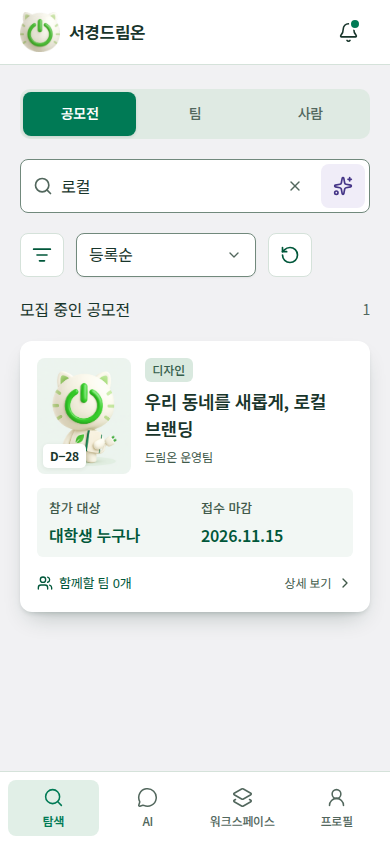
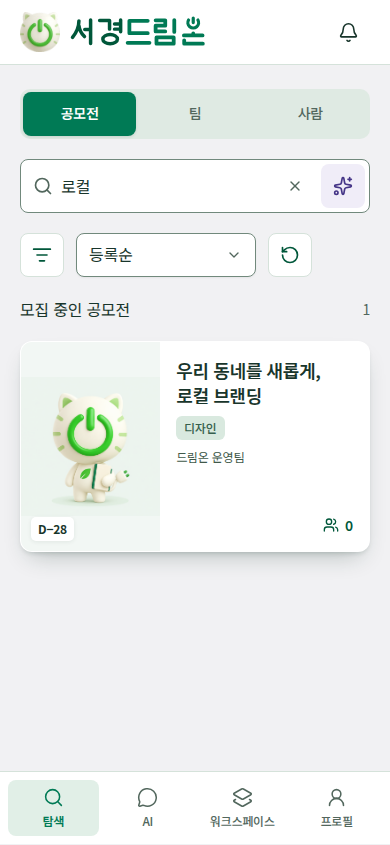
refactor(design): simplify explore contest cards around portrait posters

diff --git a/design-reference/src/features/design-preview/service-ui.css b/design-reference/src/features/design-preview/service-ui.css
@@ -339,11 +339,17 @@
   font-variant-numeric: tabular-nums;
 }
 .dreamon-preview .preview-explore .preview-contest-card {
-  gap: 14px;
+  display: grid;
+  grid-template-columns: minmax(0, 40%) minmax(0, 1fr);
+  align-items: stretch;
+  gap: 0;
+  padding: 0;
+  overflow: hidden;
 }
 .dreamon-preview .preview-explore .preview-contest-card h3 {
   margin: 0;
-  line-height: 1.5;
+  line-height: 1.4;
+  overflow-wrap: anywhere;
 }
 .dreamon-preview .preview-explore .preview-contest-card .preview-muted,
 .dreamon-preview .preview-explore .preview-card-facts,
@@ -356,31 +362,29 @@
   margin: 0;
   gap: 8px;
 }
-.dreamon-preview .preview-contest-heading {
-  display: grid;
-  grid-template-columns: clamp(88px, 24cqi, 104px) minmax(0, 1fr);
-  align-items: start;
-  gap: 14px;
-}
 .dreamon-preview .preview-contest-cover {
   position: relative;
   display: grid;
   place-items: center;
-  height: 116px;
+  width: 100%;
+  min-width: 0;
+  min-height: 100%;
+  aspect-ratio: 2 / 3;
   overflow: hidden;
-  border-radius: 8px;
   background: var(--muted);
   color: var(--muted-foreground);
 }
 .dreamon-preview .preview-contest-cover img {
+  position: absolute;
+  inset: 0;
   width: 100%;
   height: 100%;
-  object-fit: cover;
+  object-fit: contain;
 }
 .dreamon-preview .preview-contest-cover .preview-deadline {
   position: absolute;
-  bottom: 6px;
-  left: 6px;
+  bottom: 10px;
+  left: 10px;
   padding: 2px 7px;
   border-radius: 5px;
   background: var(--card);
@@ -399,46 +403,25 @@
   display: flex;
   flex-direction: column;
   align-items: flex-start;
-  gap: 6px;
+  gap: 8px;
+  padding: 16px;
 }
 .dreamon-preview .preview-explore .preview-contest-copy .preview-muted {
   font-size: 12px;
   line-height: 18px;
 }
-.dreamon-preview .preview-explore .preview-contest-card .preview-card-facts {
-  display: grid;
-  grid-template-columns: 1fr 1fr;
-  gap: 12px;
-  padding: 10px 12px;
-  border-radius: 6px;
-  background: var(--muted);
-  font-size: 13px;
+.dreamon-preview .preview-contest-teams {
+  display: inline-flex;
+  align-items: center;
+  align-self: flex-end;
+  gap: 6px;
+  margin-top: auto;
+  padding-top: 8px;
+  color: var(--accent-foreground);
+  font-size: 14px;
+  font-weight: 600;
   line-height: 20px;
-}
-.dreamon-preview .preview-contest-card .preview-card-facts > div {
-  min-width: 0;
-  flex-direction: column;
-  gap: 2px;
-}
-.dreamon-preview .preview-contest-card .preview-card-facts dt {
-  font-size: 11px;
-  line-height: 16px;
-}
-.dreamon-preview .preview-contest-card .preview-card-facts dd {
-  text-align: left;
-  color: var(--foreground);
-  font-weight: 500;
   font-variant-numeric: tabular-nums;
-}
-.dreamon-preview .preview-contest-card .preview-card-footer {
-  border: 0;
-  padding-top: 0;
-  font-size: 13px;
-}
-.dreamon-preview .preview-contest-detail-link {
-  flex-shrink: 0;
-  color: var(--muted-foreground);
-  font-size: 12px;
 }
 .dreamon-preview .preview-explore .preview-card-footer {
   line-height: 24px;

diff --git a/design-reference/src/features/design-preview/ExplorePages.tsx b/design-reference/src/features/design-preview/ExplorePages.tsx
@@ -272,38 +272,24 @@ export function ExplorePage() {
                 key={item.id}
                 to={previewPath(`/contests/${item.id}?from=${from}`)}
               >
-                <div className="preview-contest-heading">
-                  <div className="preview-contest-cover">
-                    <ContestCover
-                      src={item.cover}
-                      loading={index === 0 ? 'eager' : 'lazy'}
-                    />
-                    <span
-                      className={`preview-deadline ${item.days <= 7 ? 'preview-deadline--soon' : ''}`}
-                    >
-                      D−{item.days}
-                    </span>
-                  </div>
-                  <div className="preview-contest-copy">
-                    <Badge>{item.category}</Badge>
-                    <h3>{item.title}</h3>
-                    <p className="preview-muted">{item.organizer}</p>
-                  </div>
+                <div className="preview-contest-cover">
+                  <ContestCover
+                    src={item.cover}
+                    loading={index === 0 ? 'eager' : 'lazy'}
+                  />
+                  <span
+                    className={`preview-deadline ${item.days <= 7 ? 'preview-deadline--soon' : ''}`}
+                  >
+                    D−{item.days}
+                  </span>
                 </div>
-                <dl className="preview-card-facts">
-                  <div>
-                    <dt>참가 대상</dt>
-                    <dd>{item.audience}</dd>
-                  </div>
-                  <div>
-                    <dt>접수 마감</dt>
-                    <dd>{item.deadline}</dd>
-                  </div>
-                </dl>
-                <div className="preview-card-footer">
-                  <span>
+                <div className="preview-contest-copy">
+                  <h3>{item.title}</h3>
+                  <Badge>{item.category}</Badge>
+                  <p className="preview-muted">{item.organizer}</p>
+                  <span className="preview-contest-teams">
                     <Users size={16} aria-hidden="true" />
-                    함께할 팀{' '}
+                    <span className="sr-only">모집 중인 팀 </span>
                     {
                       teams.filter(
                         (team) =>
@@ -311,11 +297,7 @@ export function ExplorePage() {
                           team.status === '모집중',
                       ).length
                     }
-                    개
-                  </span>
-                  <span className="preview-contest-detail-link">
-                    상세 보기
-                    <ChevronRight size={16} aria-hidden="true" />
+                    <span className="sr-only">개</span>
                   </span>
                 </div>
               </Link>

diff --git a/docs/design/screens.md b/docs/design/screens.md
@@ -11,7 +11,7 @@
 | 화면·경로 | 코드 원본 | 구현할 정책·완료 조건 |
 | --- | --- | --- |
 | 로그인·가입 `/login`, `/signup` | [AccountPages](../../design-reference/src/features/design-preview/AccountPages.tsx) | [인증 AC-04~14](../specs/authentication.md#acceptance-criteria): 자체 로그인·교내 미인증·로그인 후 행동·접근 권한. 레퍼런스 로그인은 모의 동작 |
-| 공모전 탐색 `/explore` | [ExplorePages](../../design-reference/src/features/design-preview/ExplorePages.tsx), [ExploreFilters](../../design-reference/src/features/design-preview/ExploreFilters.tsx) | [공고 명세](../specs/contests.md): 제목·분야·마감·공개 정보, 검색·필터·빈 결과. 분야는 아이콘으로 여는 Drawer에서 선택·적용 |
+| 공모전 탐색 `/explore` | [ExplorePages](../../design-reference/src/features/design-preview/ExplorePages.tsx), [ExploreFilters](../../design-reference/src/features/design-preview/ExploreFilters.tsx) | [공고 명세](../specs/contests.md): 왼쪽 세로 포스터·D-day, 오른쪽 제목·분야·주최자와 우하단 팀 아이콘·모집 중 팀 수. 카드 전체로 상세 이동. 검색·필터·빈 결과, 분야는 아이콘으로 여는 Drawer에서 선택·적용 |
 | 공모전 상세 `/contests/:contestId` | [ExplorePages](../../design-reference/src/features/design-preview/ExplorePages.tsx) | [공고 공개·참가·마감 정책](../specs/contests.md): 원문·참가 방식·인원·일정·제출물·미확인 정보, 관련 팀·팀 만들기 연결 |
 | 팀 탐색 `/explore?tab=teams` | [ExplorePages](../../design-reference/src/features/design-preview/ExplorePages.tsx) | [팀 AC-01](../specs/team-recruitment.md#acceptance-criteria): 모집 역할·정원·상태·공모전별 탐색 |
 | 공개 모집글 `/teams/:teamId` | [WorkspacePages](../../design-reference/src/features/design-preview/WorkspacePages.tsx) | [팀 AC-03~07·15·18·26](../specs/team-recruitment.md#acceptance-criteria): 지원·필수 프로필 보완·메시지·마감·중복·취소 후 재지원 |
@@ -55,7 +55,9 @@ UI에서 확인할 수 있는 흐름과 명세 전체의 구현 완료는 다릅
 
 공개 사람 상세·본인 공개 미리보기·지원자 상세의 등록 항목은 [ProfileDetails](../../design-reference/src/features/design-preview/ProfileDetails.tsx)를 함께 참고합니다. 학사 정보·관심·역량·경험·자기소개·활동 가능 시간·포트폴리오 URL/제목을 같은 정보 계층으로 표시합니다. 인증 정보나 미수집 연락처를 공개 항목으로 추가하지 않습니다. 비공개 프로필도 지원받은 팀장은 전체 현재 정보를 보지만 일반 검색에 포함하지 않으며, 실제 LLM에 비공개 데이터를 전송하는 권한을 뜻하지 않습니다.
 
-키·값 정보는 공모전 카드·상세, 팀 목록·공간, 내 프로필·공개 프로필·지원자 검토에서 같은 [정보 계층](tokens.md)을 사용합니다. 워크스페이스 팀 카드는 내 역할과 확정 인원/정원으로 요약하고, 중복되는 `팀장 포함 총 N명` 안내는 생략합니다. 요약 옆 화살표는 별도 버튼이 아니며 카드 링크의 일부입니다. 팀 만들기·모집 상세의 정원 안내와 팀장 포함 정원 계산 정책은 유지합니다.
+공모전 탐색 카드는 왼쪽 40%를 세로 포스터 영역으로 사용하고 이미지 아래에 별도 문구를 두지 않습니다. 원본 이미지를 자르지 않으며 제목이 길어지면 카드 높이를 늘립니다. 오른쪽은 제목·분야·주최자 순으로 배치하고 우하단의 팀 아이콘·숫자로 현재 모집 중인 팀 수를 표시합니다. 접근성 이름에는 `모집 중인 팀 N개`를 포함합니다. 별도 상세보기 문구·화살표, 참가 대상·접수 마감 정보 행은 두지 않습니다. D-day는 포스터 위에 유지하고 정확한 마감일·참가 대상은 상세에서 확인합니다. 카드 전체의 클릭·키보드 이동과 녹색 hover·포커스·누름 상태를 유지합니다.
+
+키·값 정보는 공모전 상세, 팀 목록·공간, 내 프로필·공개 프로필·지원자 검토에서 같은 [정보 계층](tokens.md)을 사용합니다. 워크스페이스 팀 카드는 내 역할과 확정 인원/정원으로 요약하고, 중복되는 `팀장 포함 총 N명` 안내는 생략합니다. 요약 옆 화살표는 별도 버튼이 아니며 카드 링크의 일부입니다. 팀 만들기·모집 상세의 정원 안내와 팀장 포함 정원 계산 정책은 유지합니다.
 
 <a id="remaining-decisions"></a>
 

diff --git a/docs/design/tokens.md b/docs/design/tokens.md
@@ -11,7 +11,7 @@
 | 카드 hover·포커스 | `--surface-card-hover: #bdd9c7` | 조작 가능한 카드에 커서·키보드 포커스가 올라온 상태. 녹색 테두리와 함께 표시 |
 | 누른 카드 | `--surface-card-pressed: #b2d0bd` | 카드의 누름 상태. 녹색 테두리 유지 |
 | 입력·상단·팝업·폼 | `--card`, `--background: #ffffff` | 기본 shadcn 표면과 조작 영역 |
-| 카드 안 보조 면 | `--muted: #f2f7f4` | 공모전 카드의 참가 대상·접수 마감 정보 상자 |
+| 카드 안 보조 면 | `--muted: #f2f7f4` | 공모전 포스터 영역의 바탕과 보조 정보 영역 |
 | 눌린 면·탭 바탕 | `--surface-sunken: #dfeae3` | 탭 레일·설정·사용자 메시지 등 |
 | 본문 | `--foreground: #18352b` | 제목·본문 |
 | 주요 행동·선택 | `--primary: #007a55`, hover `#00573a` | 주요 버튼·선택한 탐색 탭·탐색 항목. 선택 탭은 흰 글자·600 두께 |
@@ -19,7 +19,7 @@
 | AI 보조 강조 | `--ai-soft: #f0edf8`, `--ai-ink: #453587` | AI 시작 아이콘의 보조색 |
 | 보조 텍스트 | `--muted-foreground: #52675d` | 흰 조작 면의 설명·부가 정보 |
 | 카드 안 보조 텍스트 | `--card-muted-foreground: #40594a` | 카드·내용 패널·지원자 행에서 보조 텍스트 토큰을 덮어씀. hover·누름 상태에서도 대비 유지 |
-| 읽기 전용 정보의 값·카드 안 링크 | `--accent-foreground: #00573a` | 날짜·대상·인원·역할 등 값과 상세 보기·팀 공간으로 이동 행동 |
+| 읽기 전용 정보의 값·카드 안 링크 | `--accent-foreground: #00573a` | 날짜·대상·인원·역할 등 값과 팀 수·이동 아이콘 |
 | 경계·입력 | `--border: #d5e2da`, `--input: #71897c` | 카드와 조작 요소의 경계 |
 | 포커스 | `--ring: #007a55` | 키보드 포커스 표시 |
 | 성공·확정 | `--leaf-soft: #f0fdf4`, `--leaf-ink: #166534` | 성공·완료 상태 |
@@ -46,7 +46,7 @@
 | 폰트 | `DreamOn Noto` / Noto Sans KR |
 | 주요 조작 영역 | 버튼·아이콘·탭 등에서 최소 44px을 확보 |
 
-카드는 두 겹의 아래쪽 그림자(`--card-shadow`: 3px·12px 오프셋)로 회색 바탕에서 떠 있는 높이를 표현하고 작은 패널은 `--panel-shadow`를 사용합니다. 흰 카드 안에서 공모전의 대상·마감 정보는 옅은 녹색 면으로 구분합니다. 조작 가능한 카드는 hover·키보드 포커스에서 녹색 면과 테두리로 상태를 표시합니다. hover에서는 높이·그림자가 커지고, 누르면 면이 더 짙어지며 그림자가 낮아집니다. 정확한 그림자와 상태별 적용은 토큰·스타일 원본을 참조합니다. 모바일에서 hover에만 중요한 정보나 행동을 숨기지 않습니다. 장식용 그림자보다 표면 대비·여백·제목 계층을 우선하며, 버튼의 강조를 위해 그림자를 반복 추가하지 않습니다.
+카드는 두 겹의 아래쪽 그림자(`--card-shadow`: 3px·12px 오프셋)로 회색 바탕에서 떠 있는 높이를 표현하고 작은 패널은 `--panel-shadow`를 사용합니다. 공모전 카드의 왼쪽 포스터 영역은 옅은 녹색 바탕과 기본 2:3 비율을 사용하고, `object-fit: contain`으로 이미지 내용을 보존합니다. 오른쪽 정보는 16px 안쪽 여백을 두고 우하단 팀 수를 녹색으로 강조합니다. 조작 가능한 카드는 hover·키보드 포커스에서 녹색 면과 테두리로 상태를 표시합니다. hover에서는 높이·그림자가 커지고, 누르면 면이 더 짙어지며 그림자가 낮아집니다. 정확한 그림자와 상태별 적용은 토큰·스타일 원본을 참조합니다. 모바일에서 hover에만 중요한 정보나 행동을 숨기지 않습니다. 장식용 그림자보다 표면 대비·여백·제목 계층을 우선하며, 버튼의 강조를 위해 그림자를 반복 추가하지 않습니다.
 
 [information-hierarchy.css](../../design-reference/src/features/design-preview/information-hierarchy.css)는 공모전·팀 정보, 프로필과 지원자 정보의 키·값·설명을 구분합니다. 키는 보조색으로 유지하고 짧은 값은 진한 녹색으로 강조하며, 긴 문단과 빈 상태 안내 전체를 굵게 만들지 않습니다. 긴 설명의 본문 색상은 유지합니다. 상세 정보는 라벨 열과 값 열을 맞추고 긴 값은 줄바꿈하며, 폼 입력 라벨과 실제 섹션 제목은 이 규칙으로 바꾸지 않습니다.
 
